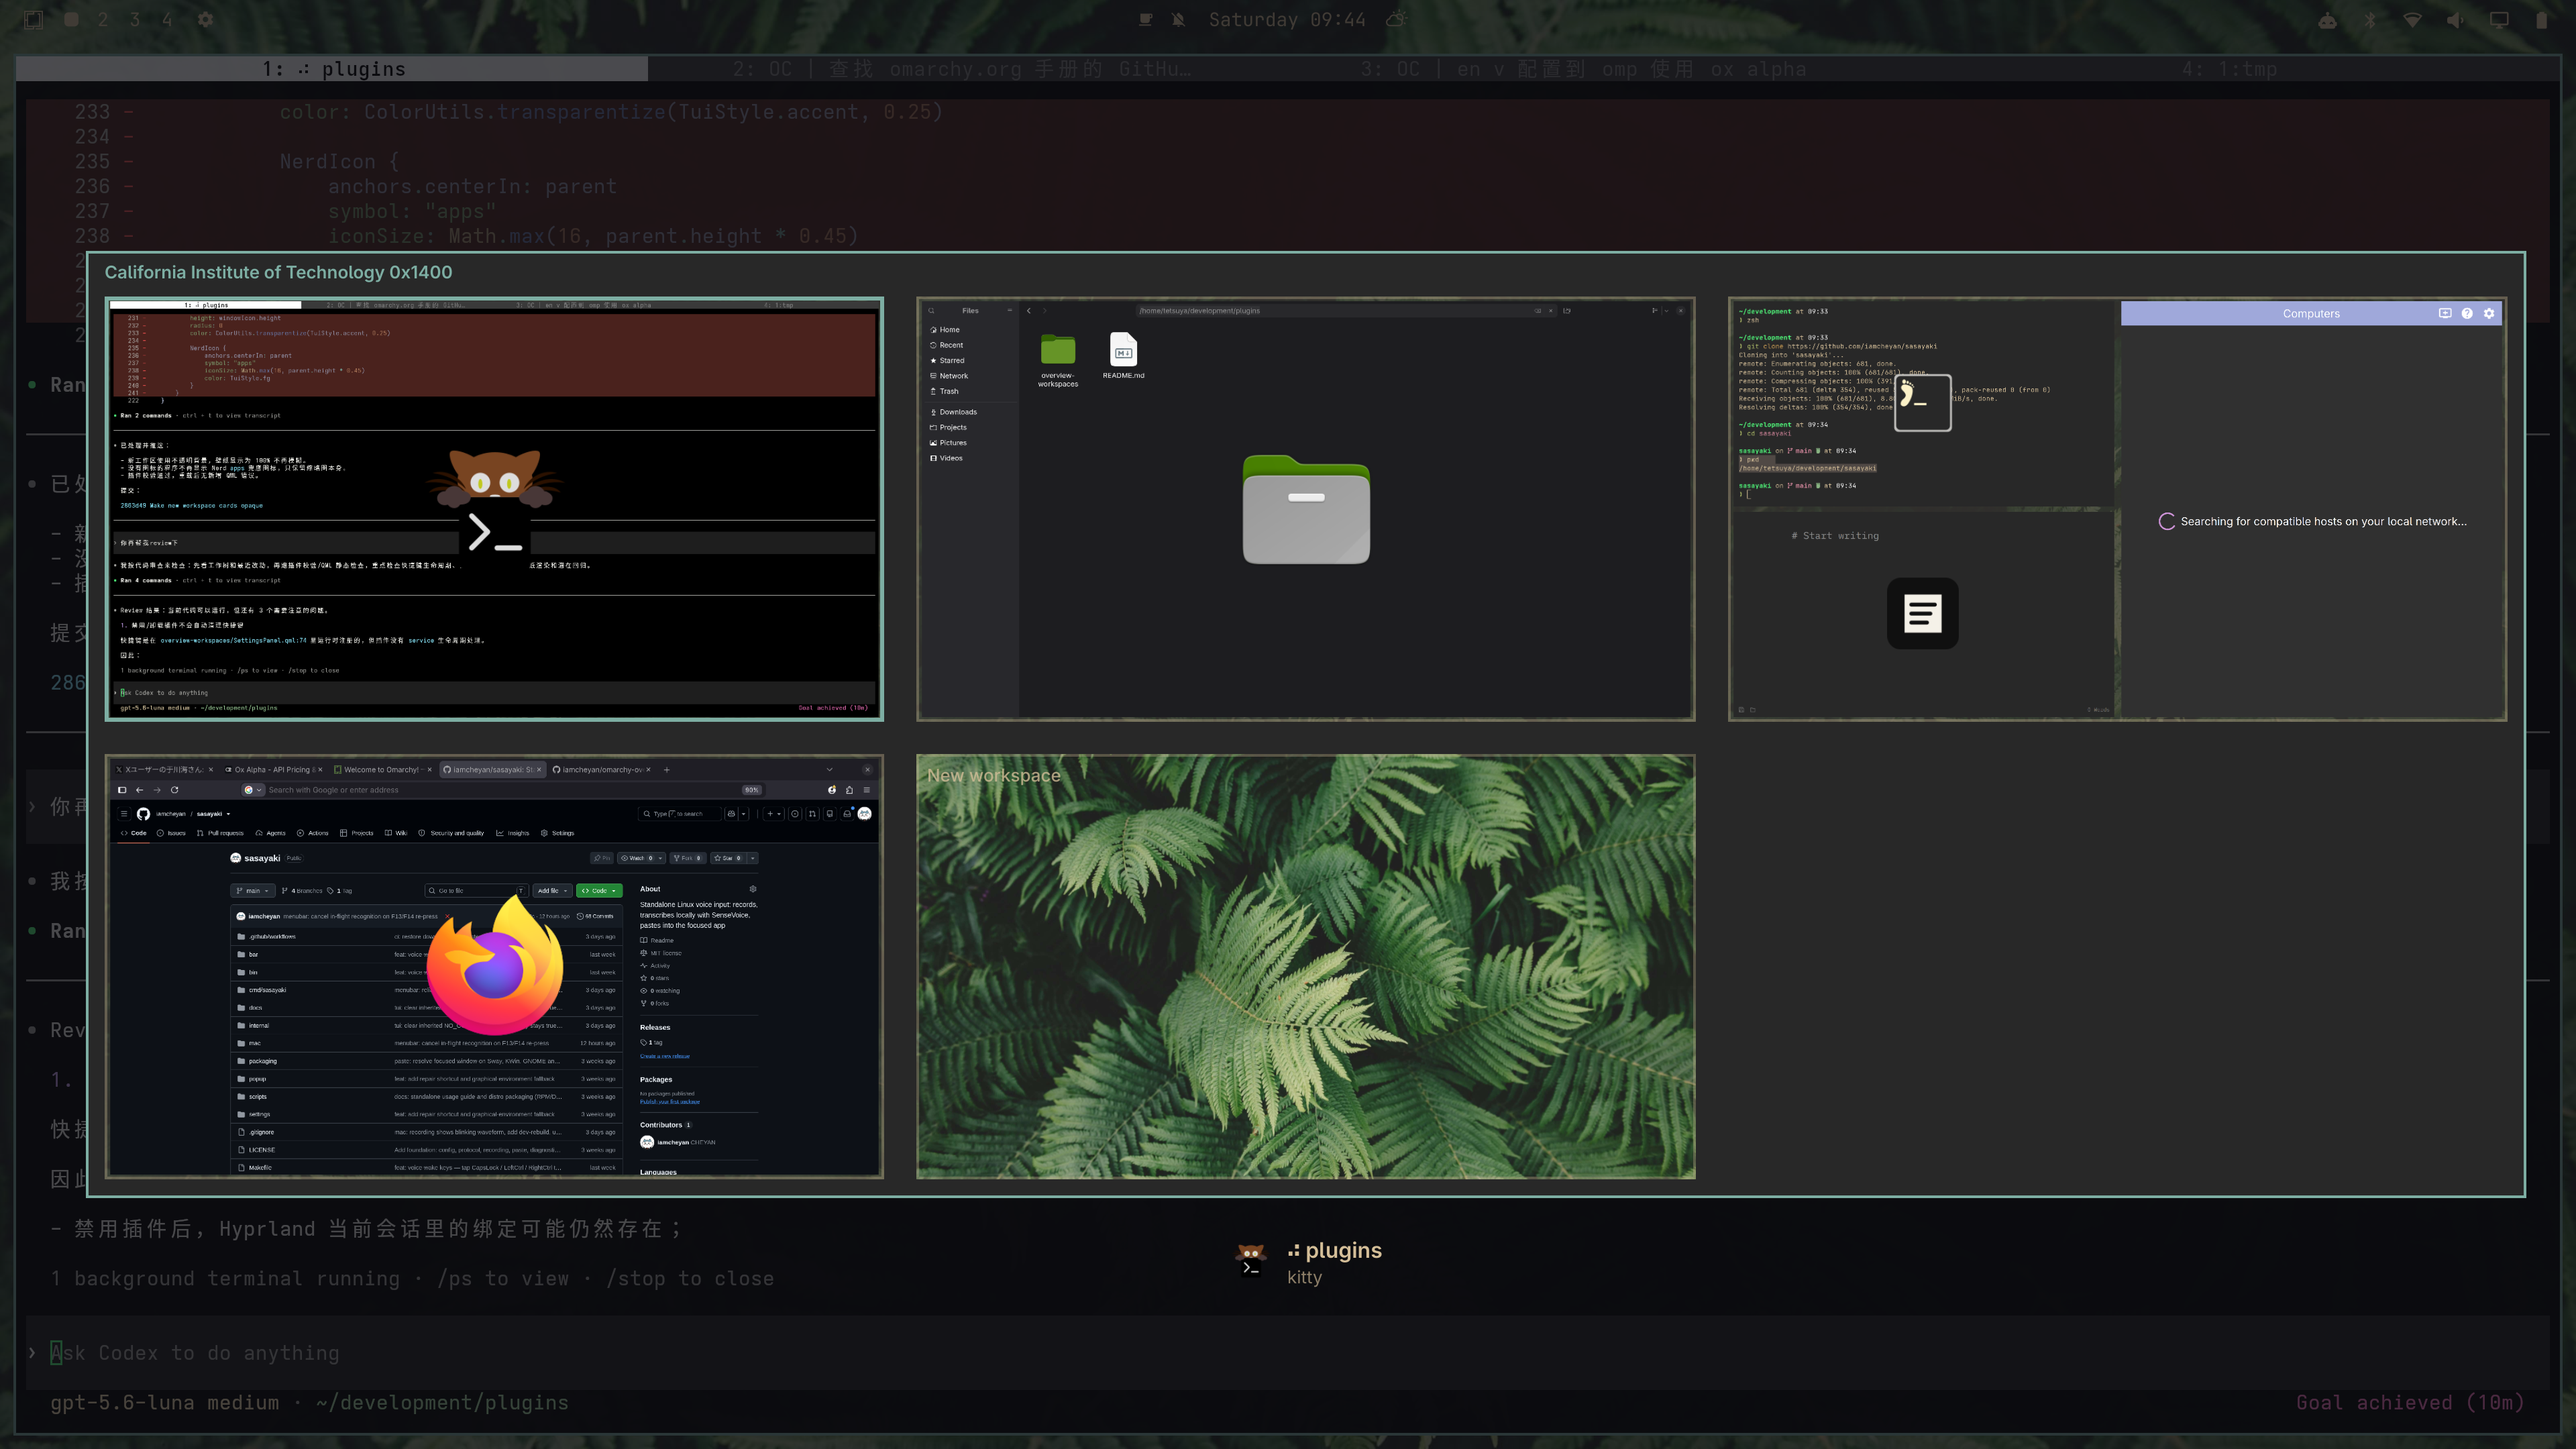
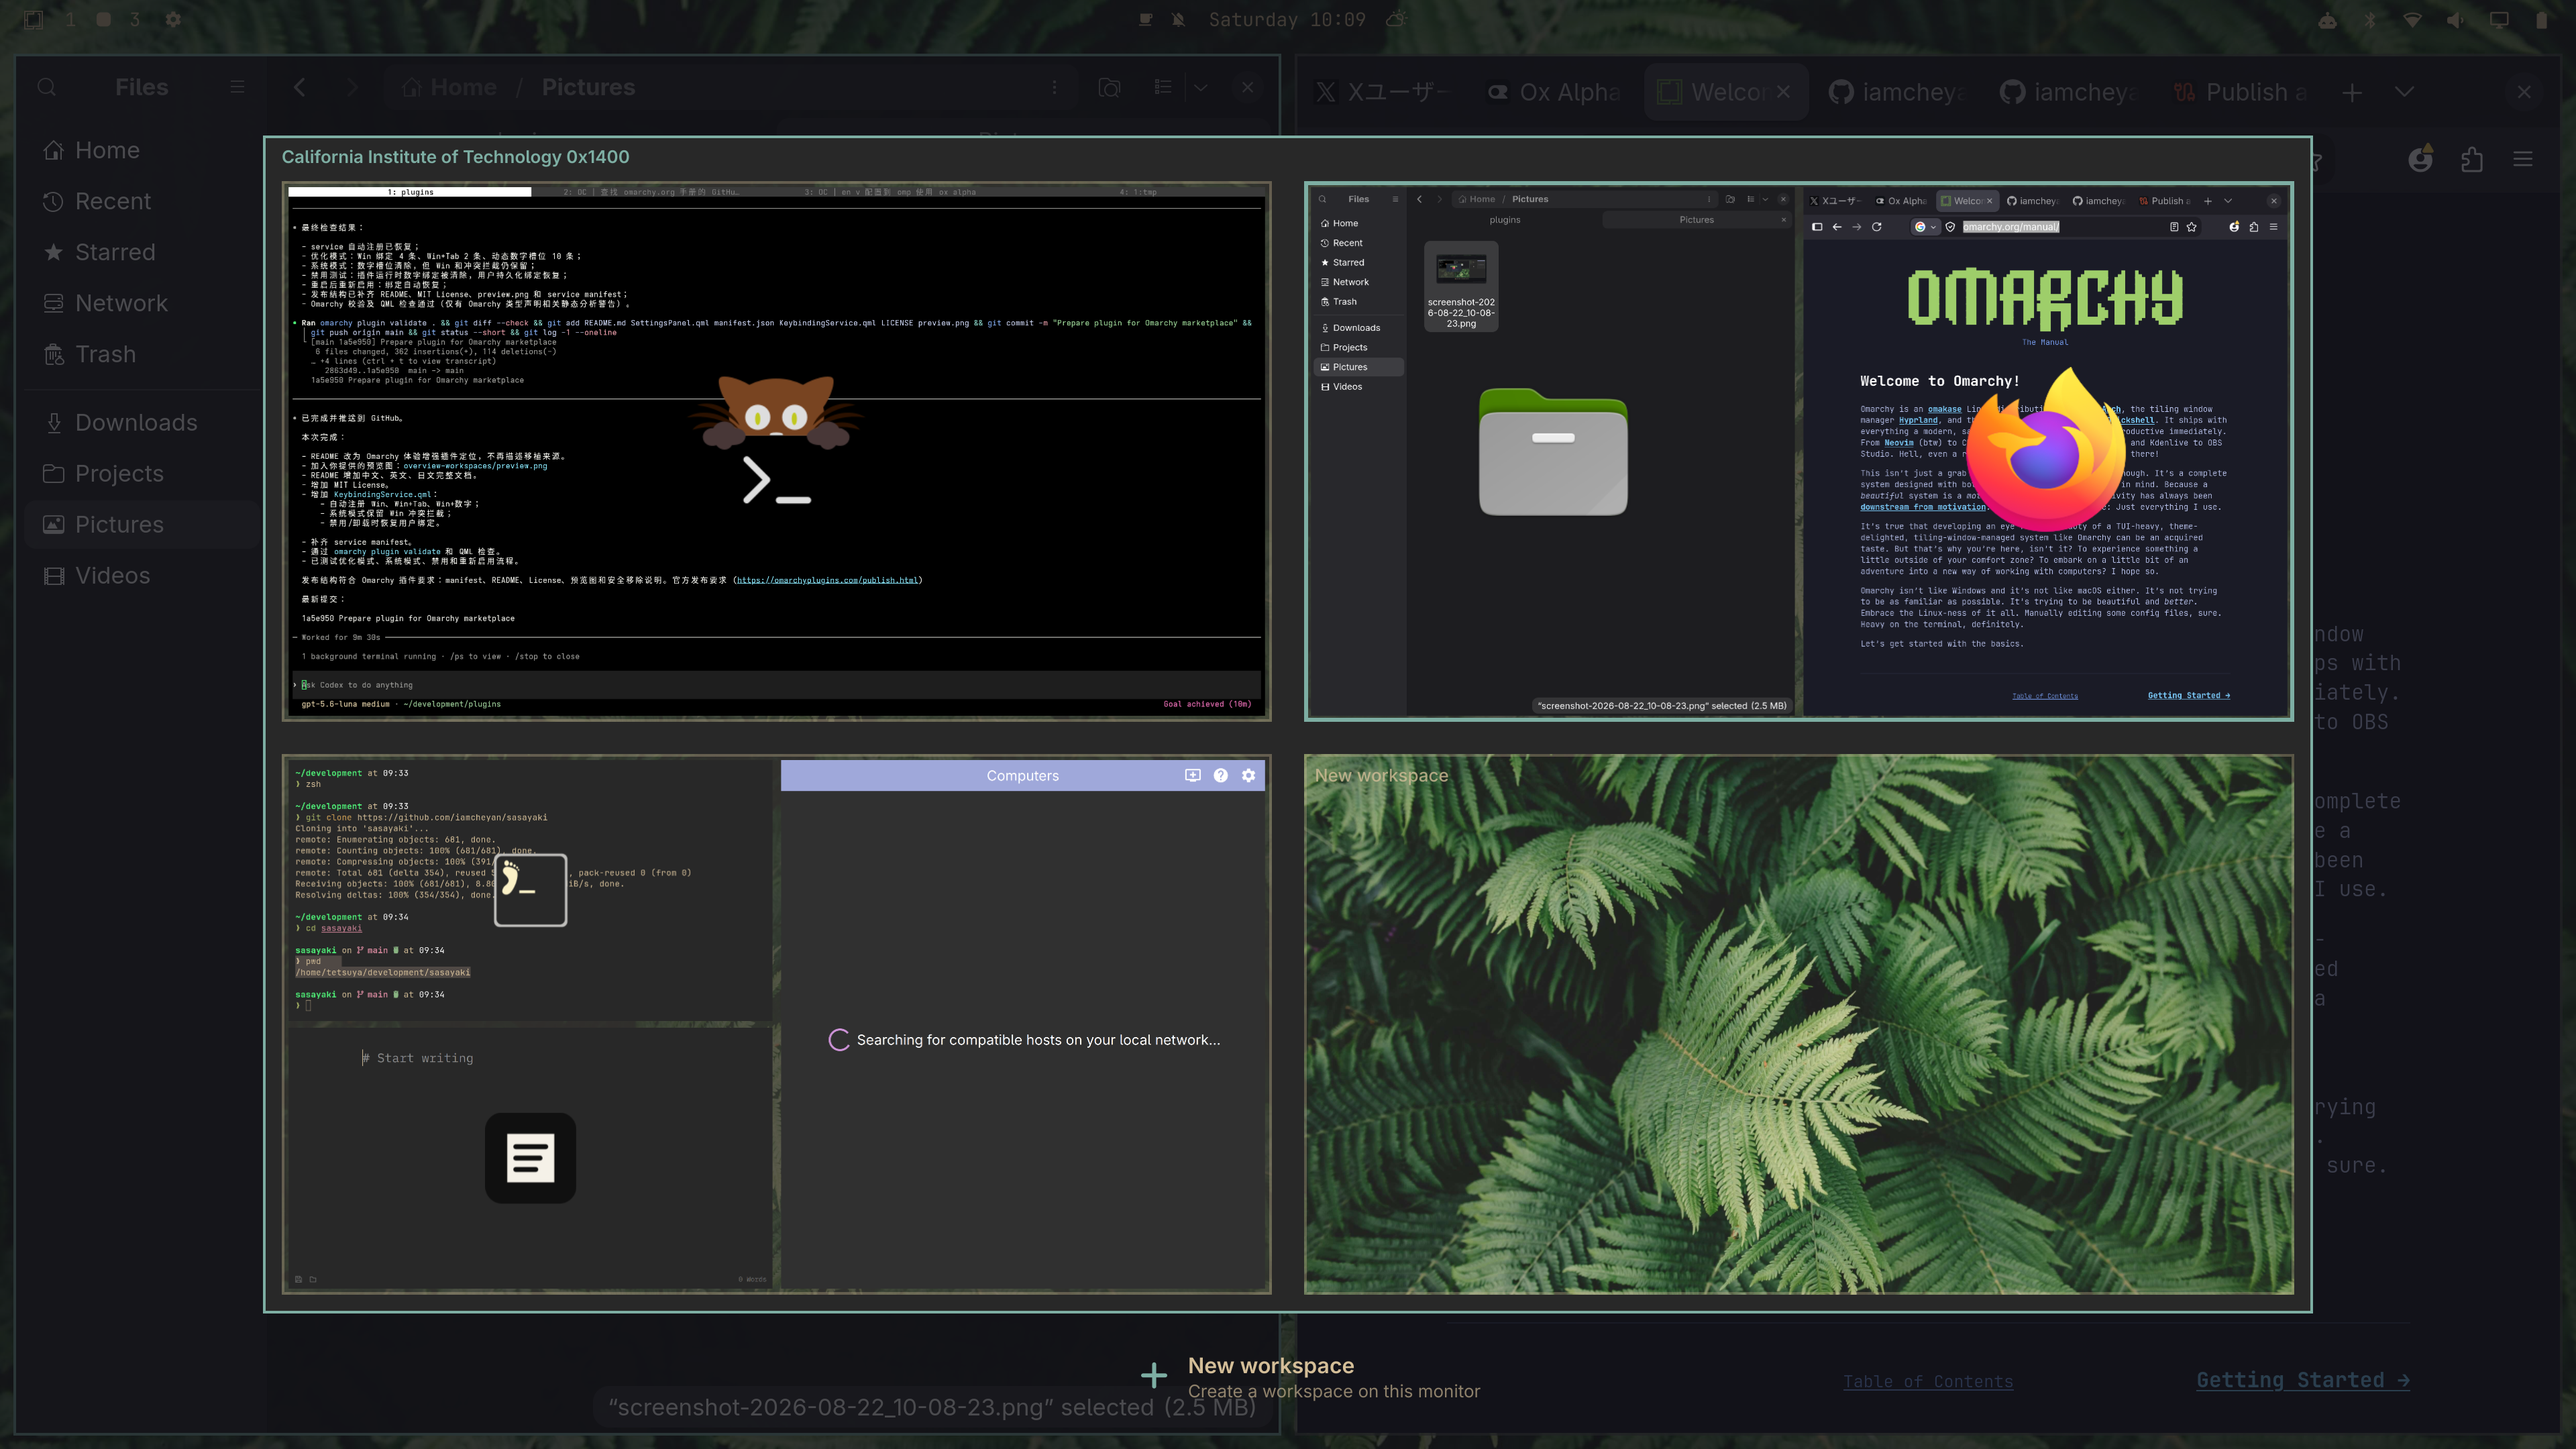
Update README previews for overview and window moves

diff --git a/README.md b/README.md
@@ -1,6 +1,12 @@
 # Overview Workspaces
 
-![Overview Workspaces preview](preview.png)
+![Overview after pressing Win](preview.png)
+
+*First image — Press Win/Super to open the Overview. / 第一张：按下 Win/Super 后出现的 Overview。 / 1枚目：Win/Super キーを押して表示した Overview。*
+
+![Overview while moving a window](preview-move.png)
+
+*Second image — Click and drag windows freely inside Overview to move them between workspaces. / 第二张：可以在 Overview 中自由点击并拖拽窗口，在工作区之间移动。 / 2枚目：Overview 内でウィンドウを自由にクリック・ドラッグしてワークスペース間を移動できます。*
 
 Overview Workspaces is an Omarchy Quattro experience-enhancement plugin. It provides a full-screen workspace overview with live window previews, wallpaper-backed workspace cards, dynamic workspace ordering, native workspace ordering, drag-and-drop movement, and automatic keyboard integration.
 
